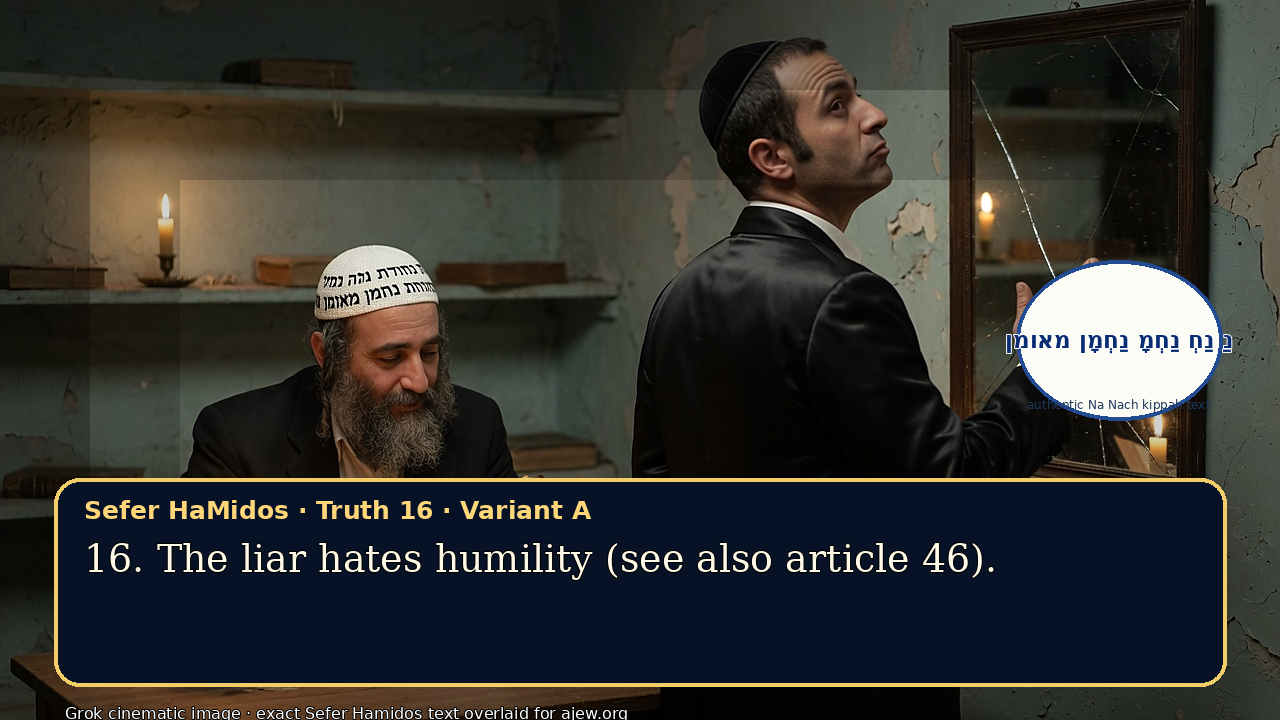
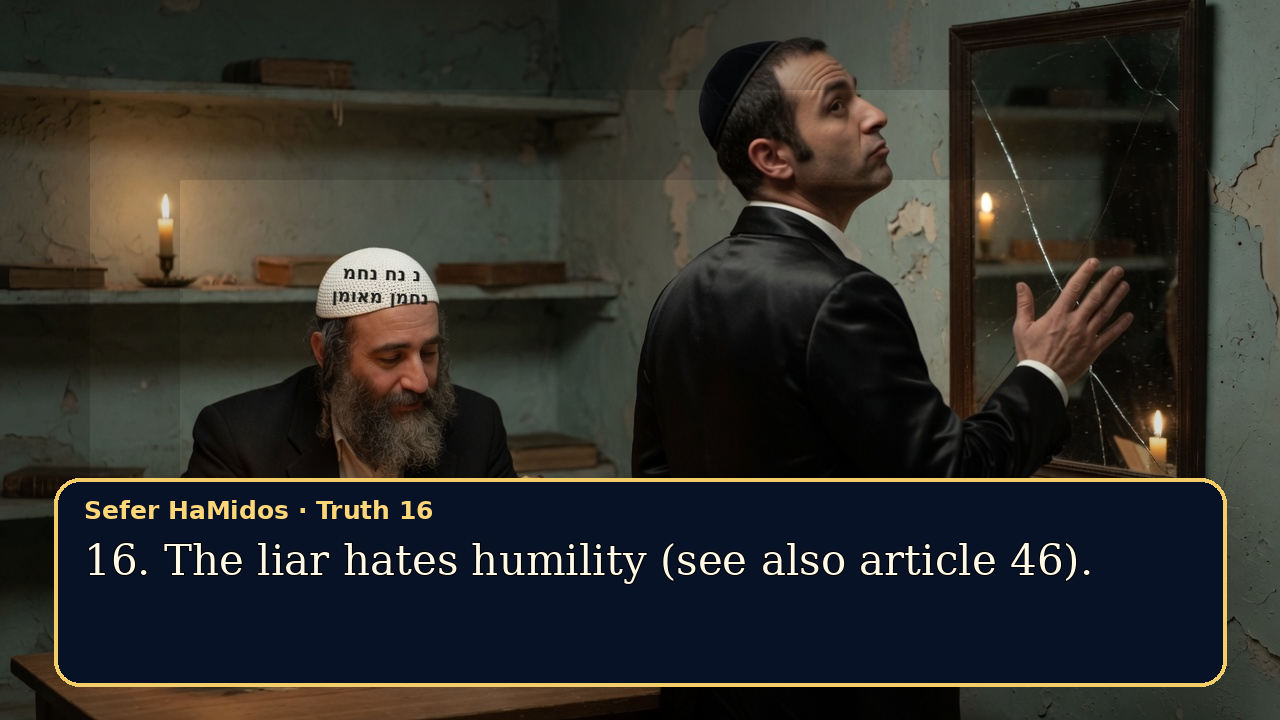
Replace malformed Truth 16 kippah artwork

diff --git a/scripts/rebuild-sefer-hamidos-truth-grok-11-40.py b/scripts/rebuild-sefer-hamidos-truth-grok-11-40.py
@@ -78,7 +78,12 @@ def overlay(base, idx, lang, variant):
         panel=(54,40,1226,236); fill=(255,249,232,226); outline=(42,74,135,220); body=(9,29,62,255); titlec=(92,53,12,255)
     d.rounded_rectangle(panel,radius=26,fill=fill,outline=outline,width=4)
     title_font=ImageFont.truetype(BOLD,25)
-    title = f"Sefer HaMidos · Truth {idx} · Variant {variant}" if lang=='en' else f"ספר המידות · אמת {idx} · תמונה {variant}"
+    if idx == 16:
+        # Truth 16's corrected base carries the authentic phrase directly on
+        # the white kippah. Keep the public card free of repair labels.
+        title = "Sefer HaMidos · Truth 16" if lang == 'en' else "ספר המידות · אמת ט״ז"
+    else:
+        title = f"Sefer HaMidos · Truth {idx} · Variant {variant}" if lang=='en' else f"ספר המידות · אמת {idx} · תמונה {variant}"
     direction='rtl' if lang=='he' else 'ltr'; anchor='ra' if lang=='he' else 'la'; tx=panel[2]-30 if lang=='he' else panel[0]+30
     d.text((tx,panel[1]+17), title, font=title_font, fill=titlec, direction=direction, anchor=anchor)
     f,lines,lh,dirn=choose(d,text,lang,panel[2]-panel[0]-60,panel[3]-panel[1]-76)
@@ -88,10 +93,13 @@ def overlay(base, idx, lang, variant):
         anc='ra' if dirn=='rtl' else 'la'
         d.text((x,y), line, font=f, fill=body, direction=dirn, anchor=anc, stroke_width=1, stroke_fill=(0,0,0,120) if variant=='A' else (255,255,255,160))
         y+=lh
-    # exact kippah text seal in the picture so no random letters issue
-    draw_exact_kippah_seal(d, (1016,260,1222,420) if variant=='A' else (1014,482,1222,642))
-    credit=ImageFont.truetype(FONT,16)
-    d.text((65,704),'Grok cinematic image · exact Sefer Hamidos text overlaid for ajew.org',font=credit,fill=(255,255,255,210),stroke_width=1,stroke_fill=(0,0,0,150))
+    # Most legacy bases need a deterministic seal because their generated
+    # lettering cannot be trusted. Truth 16 was surgically replaced with a
+    # clean base carrying the exact phrase on the kippah itself.
+    if idx != 16:
+        draw_exact_kippah_seal(d, (1016,260,1222,420) if variant=='A' else (1014,482,1222,642))
+        credit=ImageFont.truetype(FONT,16)
+        d.text((65,704),'Grok cinematic image · exact Sefer Hamidos text overlaid for ajew.org',font=credit,fill=(255,255,255,210),stroke_width=1,stroke_fill=(0,0,0,150))
     return im.convert('RGB')
 
 manifest_path=OUT/'manifest.json'
